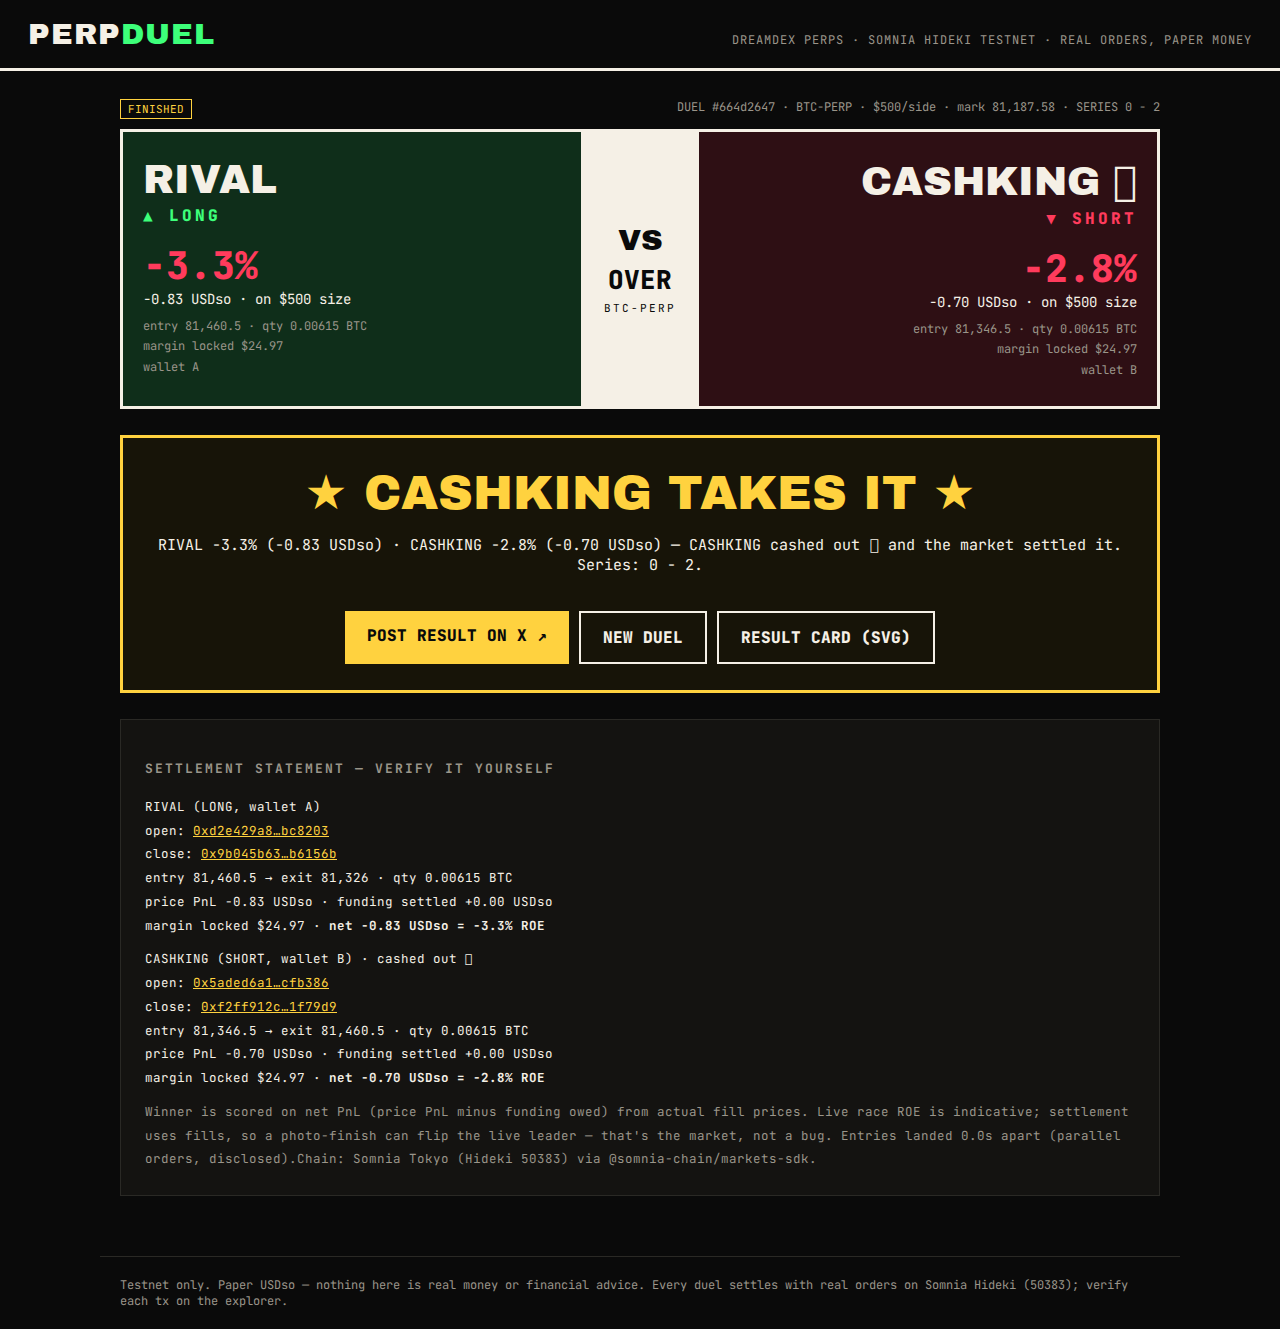
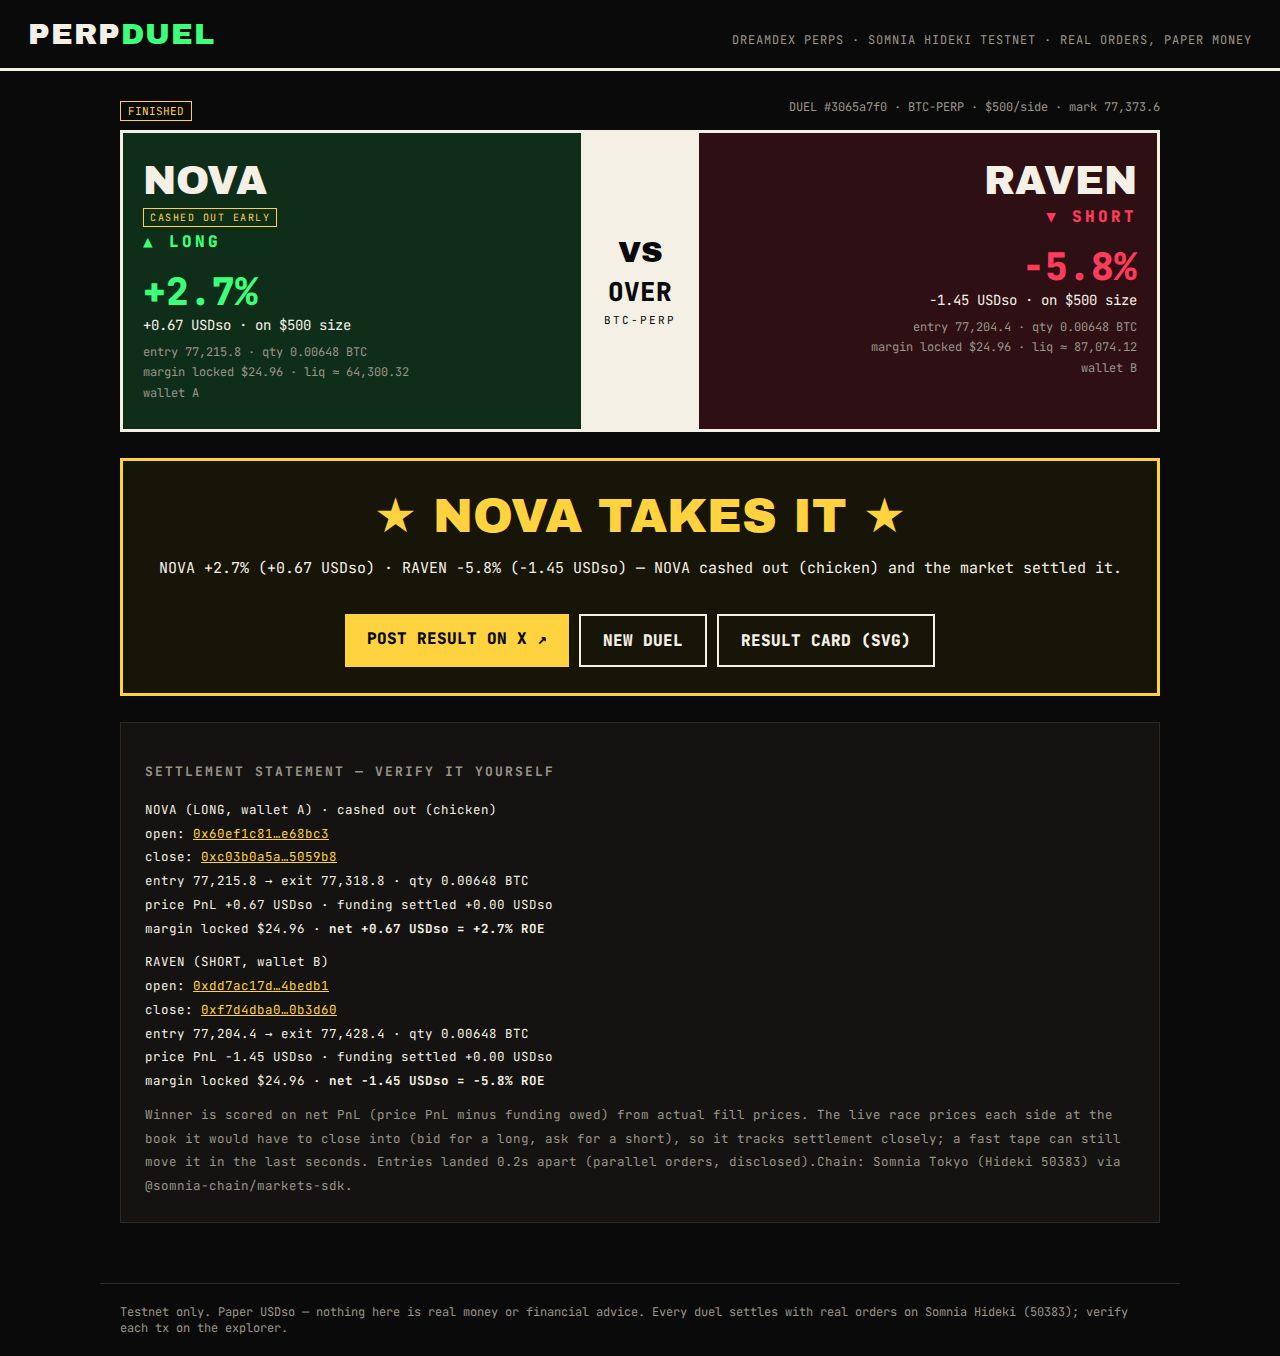
Repo cleanup + submission links
- drop stray vercel.json/.vercel (root service config that broke Vercel builds)
- remove one-off probe scripts; keep doctor/fund-b/topup/server
- dedupe .gitignore, regenerate README screenshots from the live deployment
- fix the fighter name swallowing the cash-out tag (name is now a badge)
- README/X_POSTS: the three posted threads, fresh  live proof duel

diff --git a/web/app/duel/page.tsx b/web/app/duel/page.tsx
@@ -59,7 +59,8 @@ function Tape({ duel }: { duel: Duel }) {
 function FighterCard({ p, duel, align }: { p: Duel["creator"]; duel: Duel; align?: "right" }) {
   return (
     <div className={`fighter ${align ? "right" : ""} ${p.side === "LONG" ? "long" : "short"}`}>
-      <div className="fname">{p.name}{p.cashed_out ? " · CHICKEN" : ""}</div>
+      <div className="fname">{p.name}</div>
+      {p.cashed_out && <div className="ftag">cashed out early</div>}
       <div className="fside">{p.side === "LONG" ? "▲ LONG" : "▼ SHORT"}</div>
       <div className="fpnl" style={{ color: p.pnl_usd >= 0 ? "var(--green)" : "var(--red)" }}>{fmtRoe(p.roe_pct)}</div>
       <div style={{ fontSize: 14 }}>{fmtUsd(p.pnl_usd)} · on ${duel.notional_usd} size</div>

diff --git a/web/app/globals.css b/web/app/globals.css
@@ -79,3 +79,4 @@ table.ticker td { padding: 9px 6px; border-bottom: 1px solid var(--line); }
 .wake { border: 2px solid var(--gold); background: #171408; color: var(--paper); padding: 14px 16px; margin-bottom: 18px; font-size: 13px; line-height: 1.6; }
 .wake b { color: var(--gold); }
 .dim { color: var(--dim); }
+.ftag { display: inline-block; margin-top: 6px; border: 1px solid var(--gold); color: var(--gold); font-size: 10px; letter-spacing: 1.5px; padding: 2px 6px; text-transform: uppercase; }

diff --git a/README.md b/README.md
@@ -35,6 +35,7 @@ dreamDEX's own Week 2 Arena post named the behaviour: only 2 in 10 trades were e
 
 | Duel | Fight | Result | Proof |
 |---|---|---|---|
+| `3065a7f0` | NOVA (LONG) vs RAVEN (SHORT), BTC · $500/side, live on Fly | NOVA **+2.7% ROE** (+0.67), RAVEN −5.8% (−1.45) | [A open](https://smk-dev-markets-explorer-hideki-euw4-uzavbo36ra-ez.a.run.app/tx/0x60ef1c81) · [A close](https://smk-dev-markets-explorer-hideki-euw4-uzavbo36ra-ez.a.run.app/tx/0xc03b0a5a) · [B open](https://smk-dev-markets-explorer-hideki-euw4-uzavbo36ra-ez.a.run.app/tx/0xdd7ac17d) · [B close](https://smk-dev-markets-explorer-hideki-euw4-uzavbo36ra-ez.a.run.app/tx/0xf7d4dba0) |
 | `9c0bfa64` | CASHKING (LONG) vs RIVAL (SHORT), BTC · $500/side | CASHKING **+3.30**, RIVAL −4.81 USDso | [A open](https://smk-dev-markets-explorer-hideki-euw4-uzavbo36ra-ez.a.run.app/tx/0x8b82dda4a184a0955c7bfe2bd2459404cdafc6d6c06a2a50a0f2f7fe4012c81a) · [A close](https://smk-dev-markets-explorer-hideki-euw4-uzavbo36ra-ez.a.run.app/tx/0x097c394b7c144bc7a41d0de061a75dd8e00e9303ded0c8d9ff2475417191ff56) · [B open](https://smk-dev-markets-explorer-hideki-euw4-uzavbo36ra-ez.a.run.app/tx/0xd440e4b475354fa3c01642c8daa692310afa9b7482842d8acd2894763fc643cb) · [B close](https://smk-dev-markets-explorer-hideki-euw4-uzavbo36ra-ez.a.run.app/tx/0x8141328680a22ef926021abc51df77ffd870dca1d020121e184a24beaf0255fb) |
 | `ada52657` | ALPHA (SHORT) vs BRAVO (LONG), BTC | ALPHA **+0.036**, BRAVO −0.058 USDso | [A open](https://smk-dev-markets-explorer-hideki-euw4-uzavbo36ra-ez.a.run.app/tx/0xe649336bc7d7ef6f2b9b784b9afc80ca743ce281ca35d7ad1ef4c49fb8e76aae) · [A close](https://smk-dev-markets-explorer-hideki-euw4-uzavbo36ra-ez.a.run.app/tx/0x420962cd4ccd02da64439e91e9d033699c484c9a988c2edf617da1929fc776f9) · [B open](https://smk-dev-markets-explorer-hideki-euw4-uzavbo36ra-ez.a.run.app/tx/0x0b68f901a361af0553f0210cfc586eec0d447d9ebc11b5fff57fe2e539d3988c) · [B close](https://smk-dev-markets-explorer-hideki-euw4-uzavbo36ra-ez.a.run.app/tx/0xc6697ad73956cbea533e0facbe35d14571fd64f26fcdee7f13d9df88620936bb) |
 | `8069a7ea` | TESTER (LONG) vs GHOST (SHORT), ETH | GHOST **+0.008**, TESTER −0.015 USDso | [A open](https://smk-dev-markets-explorer-hideki-euw4-uzavbo36ra-ez.a.run.app/tx/0x5463270ab379a4b13fb7cc1104bfaa913c7b4d38bfaeae24220218e5ff370fac) · [A close](https://smk-dev-markets-explorer-hideki-euw4-uzavbo36ra-ez.a.run.app/tx/0x5f972c490e0d25fbec678949eaf0d7395ef754a3ed38815e78e6375c2f536989) · [B open](https://smk-dev-markets-explorer-hideki-euw4-uzavbo36ra-ez.a.run.app/tx/0x2590208e0336eeeee1fa002d5093a522a797d35c6543be9f7765722e13ed8083) · [B close](https://smk-dev-markets-explorer-hideki-euw4-uzavbo36ra-ez.a.run.app/tx/0x03d6a5b4e072ffd3f94908bf87caefbbc77b6af583e8338f680920ed32481f09) |
@@ -49,7 +50,7 @@ House wallets: A `0xDbFe5c4d0256D2459bB216caB905999Ca41bE349` · B (rival/Ghost)
 
 | | |
 |---|---|
-| **Play** | **https://perpduel-web.pages.dev** — Cloudflare Pages, static Next export |
+| **Play** | **https://perpduel-web.pages.dev** — Cloudflare Pages project `perpduel-web`, static Next export |
 | **API** | https://perpduel-api.fly.dev — Rust engine + TS executor in one container, Fly.io `ams` |
 | **Repo** | https://github.com/PhiBao/perpduel |
 | **Proof, live** | duel `b3cfea24` (DEPLOY vs CLOUD) — [open A](https://smk-dev-markets-explorer-hideki-euw4-uzavbo36ra-ez.a.run.app/tx/0x26cca41aac) · [close A](https://smk-dev-markets-explorer-hideki-euw4-uzavbo36ra-ez.a.run.app/tx/0xb6c5f77de1) · [open B](https://smk-dev-markets-explorer-hideki-euw4-uzavbo36ra-ez.a.run.app/tx/0xa67c1e2166) · [close B](https://smk-dev-markets-explorer-hideki-euw4-uzavbo36ra-ez.a.run.app/tx/0xd450b3b707) — all four confirmed on chain 50383 |
@@ -155,7 +156,8 @@ bash scripts/verify-e2e.sh                      # full 60s BTC duel vs a rival t
 
 ## X posts
 
-<!-- REQUIRED: post 2–3 posts tagging @DreamDEXSomnia, then paste the links here before submitting. Drafts in X_POSTS.md. -->
-- Post 1 (launch challenge): _paste link_
-- Post 2 (live proof / how it settles): _paste link_
-- Post 3 (result + rematch call): _paste link_
+- Launch — [x.com/0xMemeshe/status/2115553355397554449](https://x.com/0xMemeshe/status/2115553355397554449)
+- Proof — [x.com/0xMemeshe/status/2115810427380895785](https://x.com/0xMemeshe/status/2115810427380895785)
+- Demo video (109s) — [x.com/0xMemeshe/status/2116310475751440884](https://x.com/0xMemeshe/status/2116310475751440884)
+
+All three tag @DreamDEXSomnia.

diff --git a/X_POSTS.md b/X_POSTS.md
@@ -1,7 +1,13 @@
 # X posts — required for submission
 
 The bounty asks for **2–3 public posts about the MVP that tag @DreamDEXSomnia** and a README section
-linking them. Post from your account, then paste the URLs into the README "X posts" block below.
+linking them. **Done — posted and linked in the README.**
+
+| # | Post | URL |
+|---|---|---|
+| 1 | Launch / challenge | https://x.com/0xMemeshe/status/2115553355397554449 |
+| 2 | Proof / how it settles | https://x.com/0xMemeshe/status/2115810427380895785 |
+| 3 | 109s demo video | https://x.com/0xMemeshe/status/2116310475751440884 |
 
 **Live app:** https://perpduel-web.pages.dev
 **Demo video:** `docs/perpduel-demo.mp4` (108.9 s, 1920×1080, H.264/AAC, 12 MB — inside X's 2:20 / 512 MB limits)
